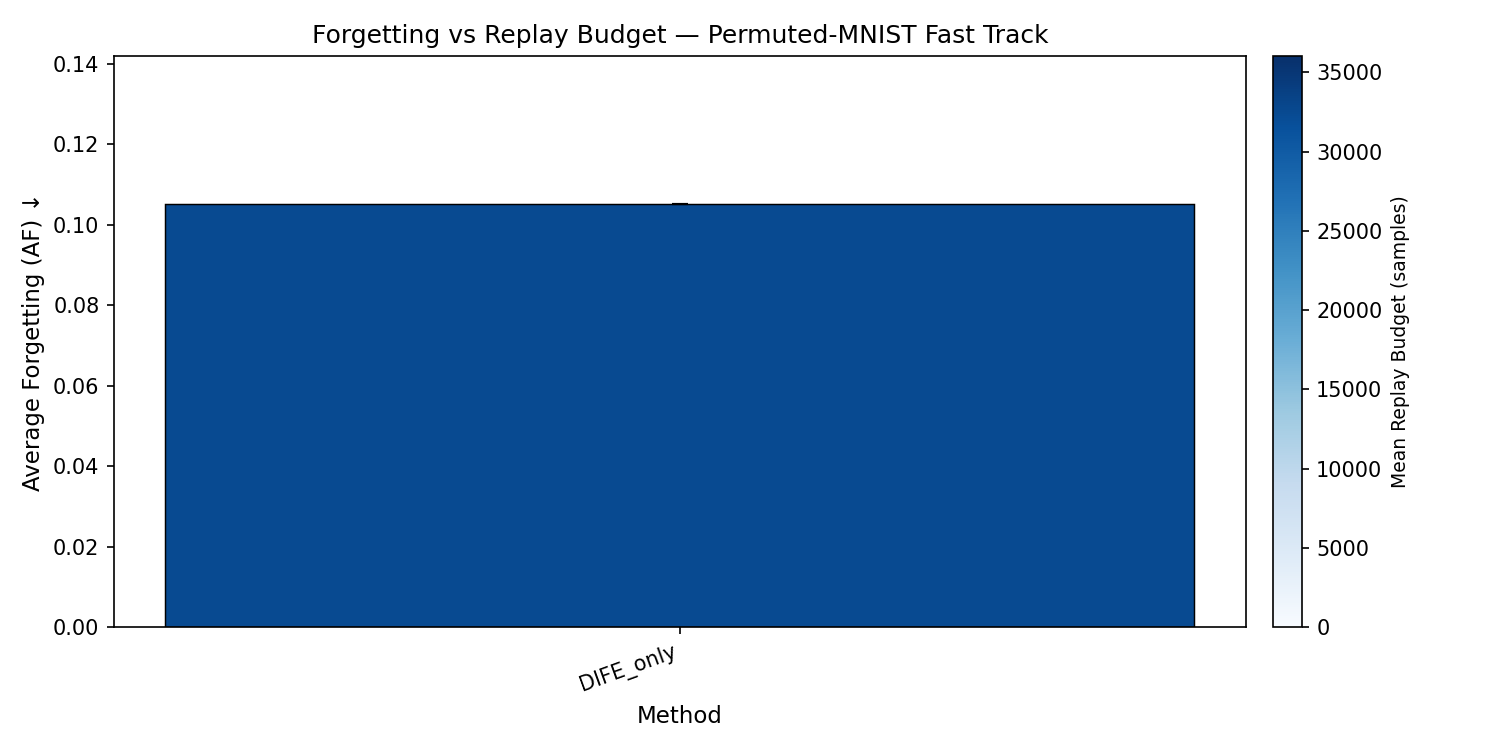
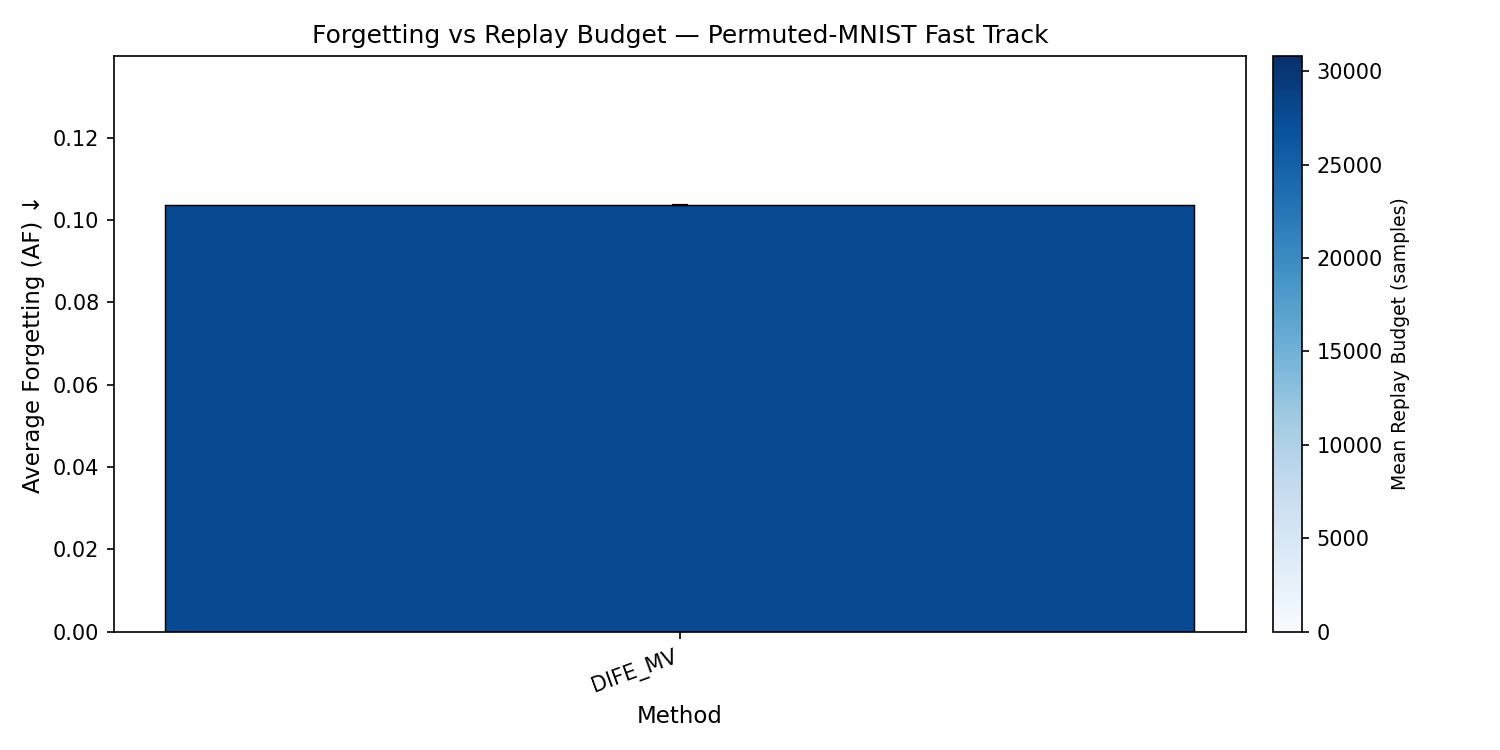
Auto-commit: save work in progress before session end
https://claude.ai/code/session_01HKDqKDisC58RBgQycSck5u

diff --git a/results/sweep_repaired/r_max_0.30/split_cifar/RESULTS_split_cifar.md b/results/sweep_repaired/r_max_0.30/split_cifar/RESULTS_split_cifar.md
@@ -6,7 +6,7 @@ Benchmark: Permuted-MNIST  |  Seeds: 3  |  Tasks: 5  |  Epochs/task: 3
 
 | Method | AA ↑ | AF ↓ | BWT ↑ | FWT | Replay Budget | Efficiency* |
 |--------|------|------|-------|-----|--------------|-------------|
-| DIFE_only          | 0.831±0.000 | 0.105±0.000 | -0.105±0.000 | 0.140±0.000 | 36,024±0 | 0.0000 |
+| DIFE_MV            | 0.828±0.000 | 0.104±0.000 | -0.104±0.000 | 0.135±0.000 | 30,810±0 | 0.0000 |
 
 \* Efficiency = AF improvement per 10,000 replay samples vs FT baseline.
   Higher is better; 0 = no replay (FT).
@@ -25,12 +25,12 @@ alpha and beta fitted online (causal) per task:
   Task   alpha_mean   alpha_std   beta_mean   beta_std
 --------------------------------------------------------
 
-Method: DIFE_only
+Method: DIFE_MV
   t=1    0.9000       0.0000      0.010000   0.000000
   t=2    0.9000       0.0000      0.010000   0.000000
-  t=3    0.9685       0.0000      0.001000   0.000000
-  t=4    0.9504       0.0000      0.001000   0.000000
-  t=5    0.9572       0.0000      0.001000   0.000000
+  t=3    0.9506       0.0000      0.001000   0.000000
+  t=4    0.9140       0.0000      0.001000   0.000000
+  t=5    0.9408       0.0000      0.001000   0.000000
 
 ---
 
@@ -38,6 +38,8 @@ Method: DIFE_only
 
 proxy = 1 - accuracy_on_buffer (computed per epoch)
 
+Method: DIFE_MV
+  seed=3: 12 epochs recorded, non-zero values: 12, max=0.3500, mean=0.1767
 
 Note: With 3 epochs/task on perm_mnist, buffer accuracy stays near 1.0
 throughout training (low intra-task forgetting), so proxy ≈ 0 across all epochs.
